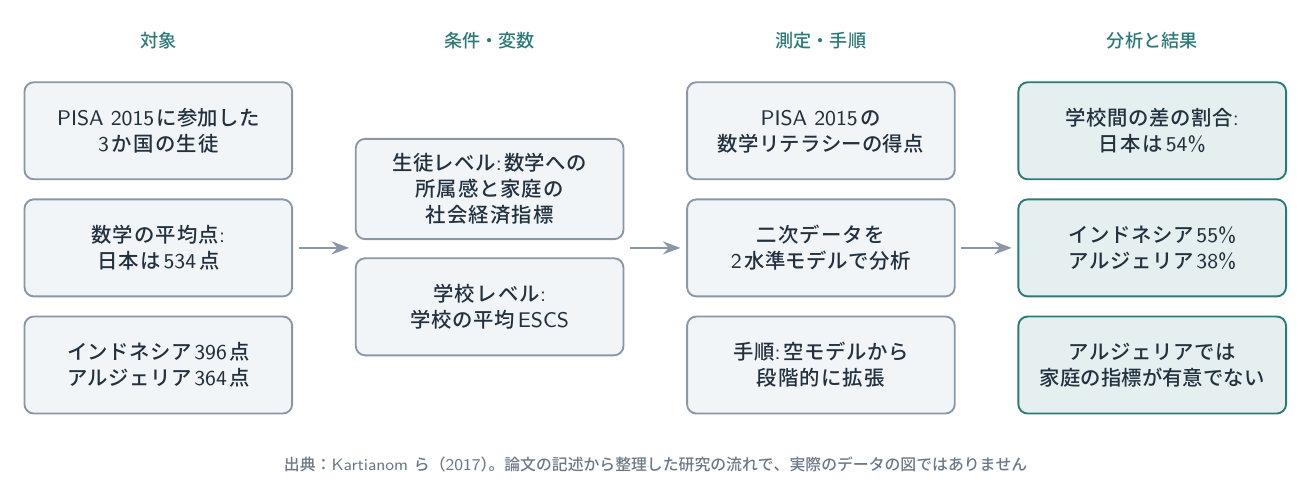
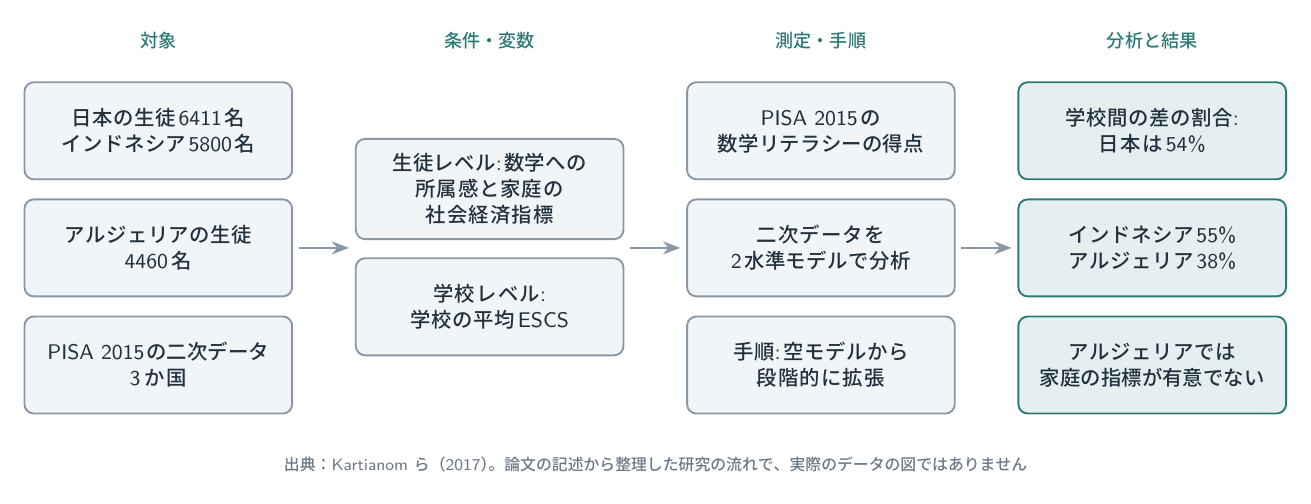
Figures: always show sample size (N); add N to PISA figure

Changed region(s): [[0.0305, 0.2083, 0.2136, 0.2976], [0.0305, 0.6845, 0.2136, 0.7738], [0.0305, 0.4464, 0.2136, 0.5357]]

diff --git a/lib/figure.js b/lib/figure.js
@@ -86,6 +86,7 @@ function buildPrompt(entry, problems) {
     '上の【論文本文】は、英語の学術論文の本文です。この論文自身が行った**研究の方法**を、4つの欄の流れ図にまとめます。',
     '図は左から右へ、4つの欄が矢印でつながります。各欄の項目を、次の指定で書いてください。',
     '- target（対象）: 研究の対象。参加者（国・学年・人数）、使ったデータ、メタ分析なら集めた研究の数や検索の範囲。',
+    '  **調査人数（N数）は必ず対象の欄に入れる**（論文の本文にある人数。メタ分析なら研究の数）。',
     '  **この研究の主な被験者（分析の対象になった人）を入れる**。専門家・審査員・予備調査の参加者だけを対象の欄に入れない（主な被験者が別にいるとき）。',
     '  参加者の人数と、分析に使えた人数が違う論文では、そのことが分かるように書く（例: 「参加499名/分析490名」。数値は根拠の文にあるものだけ）。国・学年も、本文にあれば入れる',
     '- conditions（条件・変数）: 比べた群・条件、または分析に使った変数や尺度の構成概念（実験なら統制群と介入群、相関研究なら予測する変数と予測される変数、など）',
